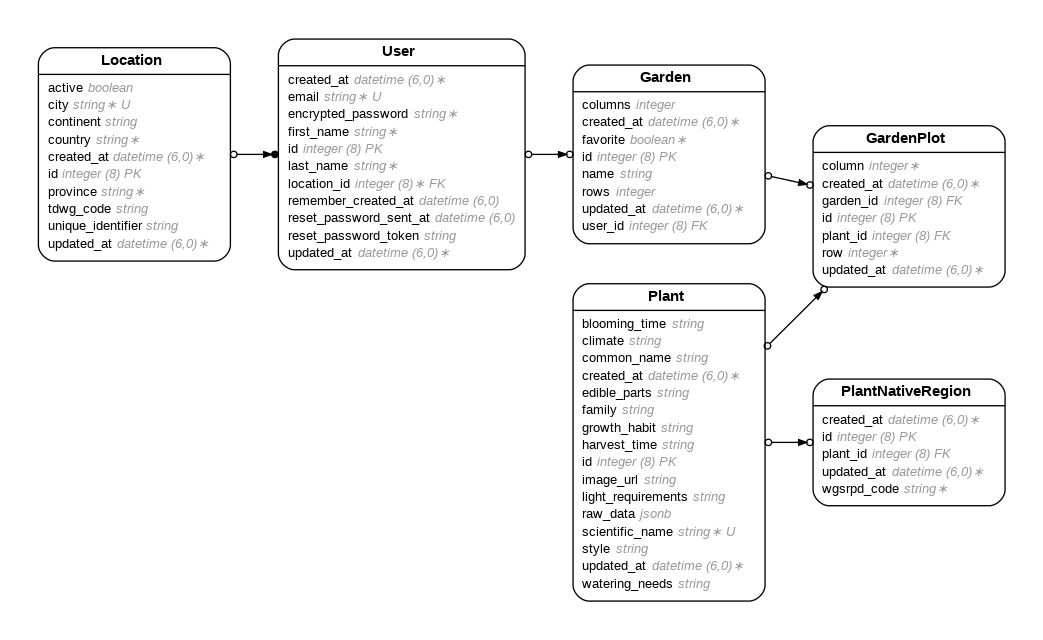
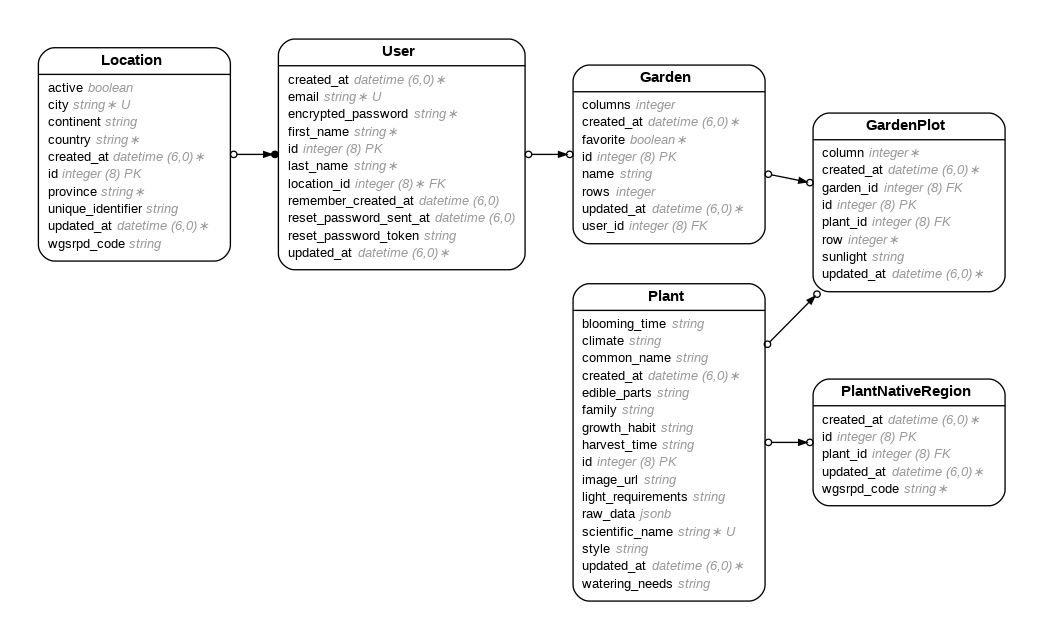
working on the modal

Changed region(s): [[0.7363, 0.1562, 0.9818, 0.5], [0.0307, 0.3125, 0.1841, 0.4062], [0.7363, 0.5, 0.767, 0.5312]]

diff --git a/app/assets/stylesheets/garden_plot_modal.css b/app/assets/stylesheets/garden_plot_modal.css
@@ -1,0 +1,35 @@
+.modal {
+  position: fixed;
+  top: 30%;
+  left: 50%;
+  transform: translate(-50%, -30%);
+  background: white;
+  border: 1px solid #ccc;
+  padding: 1em;
+  z-index: 1000;
+  box-shadow: 0 4px 10px rgba(0,0,0,0.2);
+}
+
+.autocomplete-list {
+  max-height: 150px;
+  overflow-y: auto;
+  border: 1px solid #ddd;
+  margin-top: 0.5em;
+  padding-left: 0;
+}
+
+.autocomplete-list li {
+  list-style: none;
+  padding: 0.3em;
+  cursor: pointer;
+}
+
+.autocomplete-list li:hover {
+  background-color: #eee;
+}
+
+.has-plant {
+  background-color: #a2d5a2;
+  color: white;
+  font-weight: bold;
+}

diff --git a/app/assets/stylesheets/garden_grid.css b/app/assets/stylesheets/garden_grid.css
@@ -1,0 +1,33 @@
+.garden-grid {
+  display: flex;
+  flex-direction: column;
+  gap: 2px;
+}
+
+.garden-row {
+  display: flex; /* row of plots */
+}
+
+.garden-plot {
+  width: 40px;
+  height: 40px;
+  border: 1px solid #666;
+  display: inline-block;
+  margin: 1px;
+  text-align: center;
+  line-height: 40px;
+  cursor: pointer;
+  transition: background-color 0.2s;
+}
+
+.garden-plot.empty {
+  background-color: #f0e5d8; /* brown soil */
+}
+
+.garden-plot.has-plant {
+  background-color: #a3d9a5; /* green for planted */
+}
+
+.garden-plot:hover {
+  background-color: #7bc47f; /* highlight on hover */
+}

diff --git a/app/assets/stylesheets/application.css b/app/assets/stylesheets/application.css
@@ -10,12 +10,6 @@
  */
 
 @import "custom-image.css";
-
-.navbar-custom {
-  background-color: #e5f7c8; /* your custom green */
-}
-
-.navbar-custom .nav-link,
-.navbar-custom .navbar-brand {
-  color: darkgreen;
-}
+@import "garden_grid";
+@import "garden_plot_modal.css";
+@import "navbar.css";

diff --git a/app/assets/stylesheets/navbar.css b/app/assets/stylesheets/navbar.css
@@ -1,0 +1,8 @@
+.navbar-custom {
+  background-color: #e5f7c8; /* your custom green */
+}
+
+.navbar-custom .nav-link,
+.navbar-custom .navbar-brand {
+  color: darkgreen;
+}

diff --git a/db/seeds.rb b/db/seeds.rb
@@ -6,48 +6,57 @@
 # db/seeds.rb
 
 # Clear old data if needed
+# Clear out old sample data
 GardenPlot.destroy_all
 Garden.destroy_all
 User.destroy_all
 
-# Sample users
+# Sample Alice in Wonderland–themed users
 characters = [
   { first_name: "Alice", last_name: "Liddell", email: "alice@example.com" },
   { first_name: "Mad Hatter", last_name: "Hatson", email: "mad.hatter@example.com" },
-  # ... add more
+  { first_name: "Cheshire", last_name: "Cat", email: "cheshire.cat@example.com" },
+  { first_name: "White", last_name: "Rabbit", email: "white.rabbit@example.com" },
+  { first_name: "Queen", last_name: "Hearts", email: "queen.hearts@example.com" },
+  { first_name: "March", last_name: "Hare", email: "march.hare@example.com" },
+  { first_name: "Tweedle", last_name: "Dee", email: "tweedle.dee@example.com" },
+  { first_name: "Tweedle", last_name: "Dum", email: "tweedle.dum@example.com" },
+  { first_name: "Caterpillar", last_name: "Absolem", email: "caterpillar@example.com" },
+  { first_name: "Dormouse", last_name: "Sleepy", email: "dormouse@example.com" }
 ]
 
-characters.each do |char|
+users_created = characters.map do |char|
   location = Location.order("RANDOM()").first
-
-  user = User.create!(
+  User.create!(
     first_name: char[:first_name],
     last_name: char[:last_name],
     email: char[:email],
-    password: "password123",
-    password_confirmation: "password123",
+    password: "appdev",
+    password_confirmation: "appdev",
     location: location
   )
+end
 
-  # Create 2 gardens per user with different sizes
-  2.times do |i|
-    rows = rand(3..5)
-    columns = rand(3..5)
+gardens_created = []
+plots_created = []
+
+# Create 1–2 gardens per user, varying the size
+users_created.each do |user|
+  rand(1..2).times do |i|
+    rows = [3, 4, 5, 6, 7].sample   # random number of rows
+    columns = [3, 4, 5, 6, 7].sample # random number of columns
     garden = user.gardens.create!(
-      name: "#{user.first_name}'s Garden #{i+1}",
+      name: "#{user.first_name}'s Garden #{i + 1}",
       rows: rows,
-      columns: columns,
-      favorite: i == 0 # first garden is default favorite
+      columns: columns
     )
-
-    # Generate plots for each garden
-    rows.times do |r|
-      columns.times do |c|
-        garden.garden_plots.create!(
-          row: r,
-          column: c
-        )
-      end
-    end
+    gardens_created << garden
+    plots_created += garden.garden_plots.to_a
   end
 end
+
+
+puts "Seeding complete!"
+puts "Users created: #{users_created.count}"
+puts "Gardens created: #{gardens_created.count}"
+puts "Garden plots created: #{plots_created.count}"

diff --git a/db/schema.rb b/db/schema.rb
@@ -10,7 +10,7 @@
 #
 # It's strongly recommended that you check this file into your version control system.
 
-ActiveRecord::Schema[8.0].define(version: 2026_02_24_173516) do
+ActiveRecord::Schema[8.0].define(version: 2026_02_24_185016) do
   # These are extensions that must be enabled in order to support this database
   enable_extension "pg_catalog.plpgsql"
 
@@ -21,6 +21,7 @@ ActiveRecord::Schema[8.0].define(version: 2026_02_24_173516) do
     t.integer "column"
     t.datetime "created_at", null: false
     t.datetime "updated_at", null: false
+    t.string "sunlight"
     t.index ["garden_id"], name: "index_garden_plots_on_garden_id"
     t.index ["plant_id"], name: "index_garden_plots_on_plant_id"
   end
@@ -45,7 +46,7 @@ ActiveRecord::Schema[8.0].define(version: 2026_02_24_173516) do
     t.string "unique_identifier"
     t.boolean "active"
     t.string "continent"
-    t.string "tdwg_code"
+    t.string "wgsrpd_code"
     t.index ["country", "province", "city"], name: "index_locations_on_country_province_city", unique: true
   end
 

diff --git a/app/models/garden_plot.rb b/app/models/garden_plot.rb
@@ -5,6 +5,7 @@
 #  id         :bigint           not null, primary key
 #  column     :integer
 #  row        :integer
+#  sunlight   :string
 #  created_at :datetime         not null
 #  updated_at :datetime         not null
 #  garden_id  :bigint
@@ -20,9 +21,19 @@
 #  fk_rails_...  (garden_id => gardens.id)
 #  fk_rails_...  (plant_id => plants.id)
 #
+# app/models/garden_plot.rb
 class GardenPlot < ApplicationRecord
   belongs_to :garden
   belongs_to :plant, optional: true
 
   validates :row, :column, presence: true
+
+  # Set default sunlight
+  after_initialize :set_default_sunlight, if: :new_record?
+
+  private
+
+  def set_default_sunlight
+    self.sunlight ||= "sunny"  # Default to sunny; can improve later
+  end
 end

diff --git a/app/controllers/garden_plots_controller.rb b/app/controllers/garden_plots_controller.rb
@@ -1,0 +1,24 @@
+# app/controllers/garden_plots_controller.rb
+class GardenPlotsController < ApplicationController
+  before_action :authenticate_user!
+  before_action :set_plot
+
+  def plant
+  plant = Plant.find(params[:plant_id])
+
+  @plot.plant = plant
+  if @plot.save
+    render json: { success: true, plant_name: plant.common_name }
+  else
+    render json: { success: false, error: @plot.errors.full_messages.join(", ") }
+  end
+end
+
+  private
+
+  def set_plot
+    @plot = GardenPlot.find(params[:id])
+    # Optional: verify that current_user owns this plot
+    redirect_to dashboard_path, alert: "Unauthorized" unless @plot.garden.user == current_user
+  end
+end

diff --git a/app/controllers/plants_controller.rb b/app/controllers/plants_controller.rb
@@ -1,0 +1,16 @@
+class PlantsController < ApplicationController
+  before_action :authenticate_user!
+
+  def autocomplete
+    term = params[:term].to_s.strip
+    sunlight = params[:sunlight]
+
+    plants = Plant.where("common_name ILIKE ?", "%#{term}%")
+    # Filter by sunlight if needed
+    if sunlight.present?
+      plants = plants.where("light_requirements = ? OR light_requirements IS NULL", sunlight)
+    end
+
+    render json: plants.limit(10).pluck(:id, :common_name)
+  end
+end

diff --git a/config/routes.rb b/config/routes.rb
@@ -11,7 +11,17 @@ Rails.application.routes.draw do
     resources :garden_plots, only: [:create, :update, :destroy]
   end
 
-  resources :plants, only: [:index, :show]
+  resources :garden_plots, only: [] do
+  member do
+    patch :plant
+  end
+end
+
+  resources :plants, only: [] do
+  collection do
+    get :autocomplete
+  end
+end
 
   resources :locations, only: [:index] do
     get :cities, on: :collection

diff --git a/app/models/location.rb b/app/models/location.rb
@@ -8,8 +8,8 @@
 #  continent         :string
 #  country           :string           not null
 #  province          :string           not null
-#  tdwg_code         :string
 #  unique_identifier :string
+#  wgsrpd_code       :string
 #  created_at        :datetime         not null
 #  updated_at        :datetime         not null
 #

diff --git a/db/migrate/20260224185016_rename_tdwg_code_to_wgsrpd_code_in_locations.rb b/db/migrate/20260224185016_rename_tdwg_code_to_wgsrpd_code_in_locations.rb
@@ -1,0 +1,5 @@
+class RenameTdwgCodeToWgsrpdCodeInLocations < ActiveRecord::Migration[8.0]
+  def change
+    rename_column :locations, :tdwg_code, :wgsrpd_code
+  end
+end
